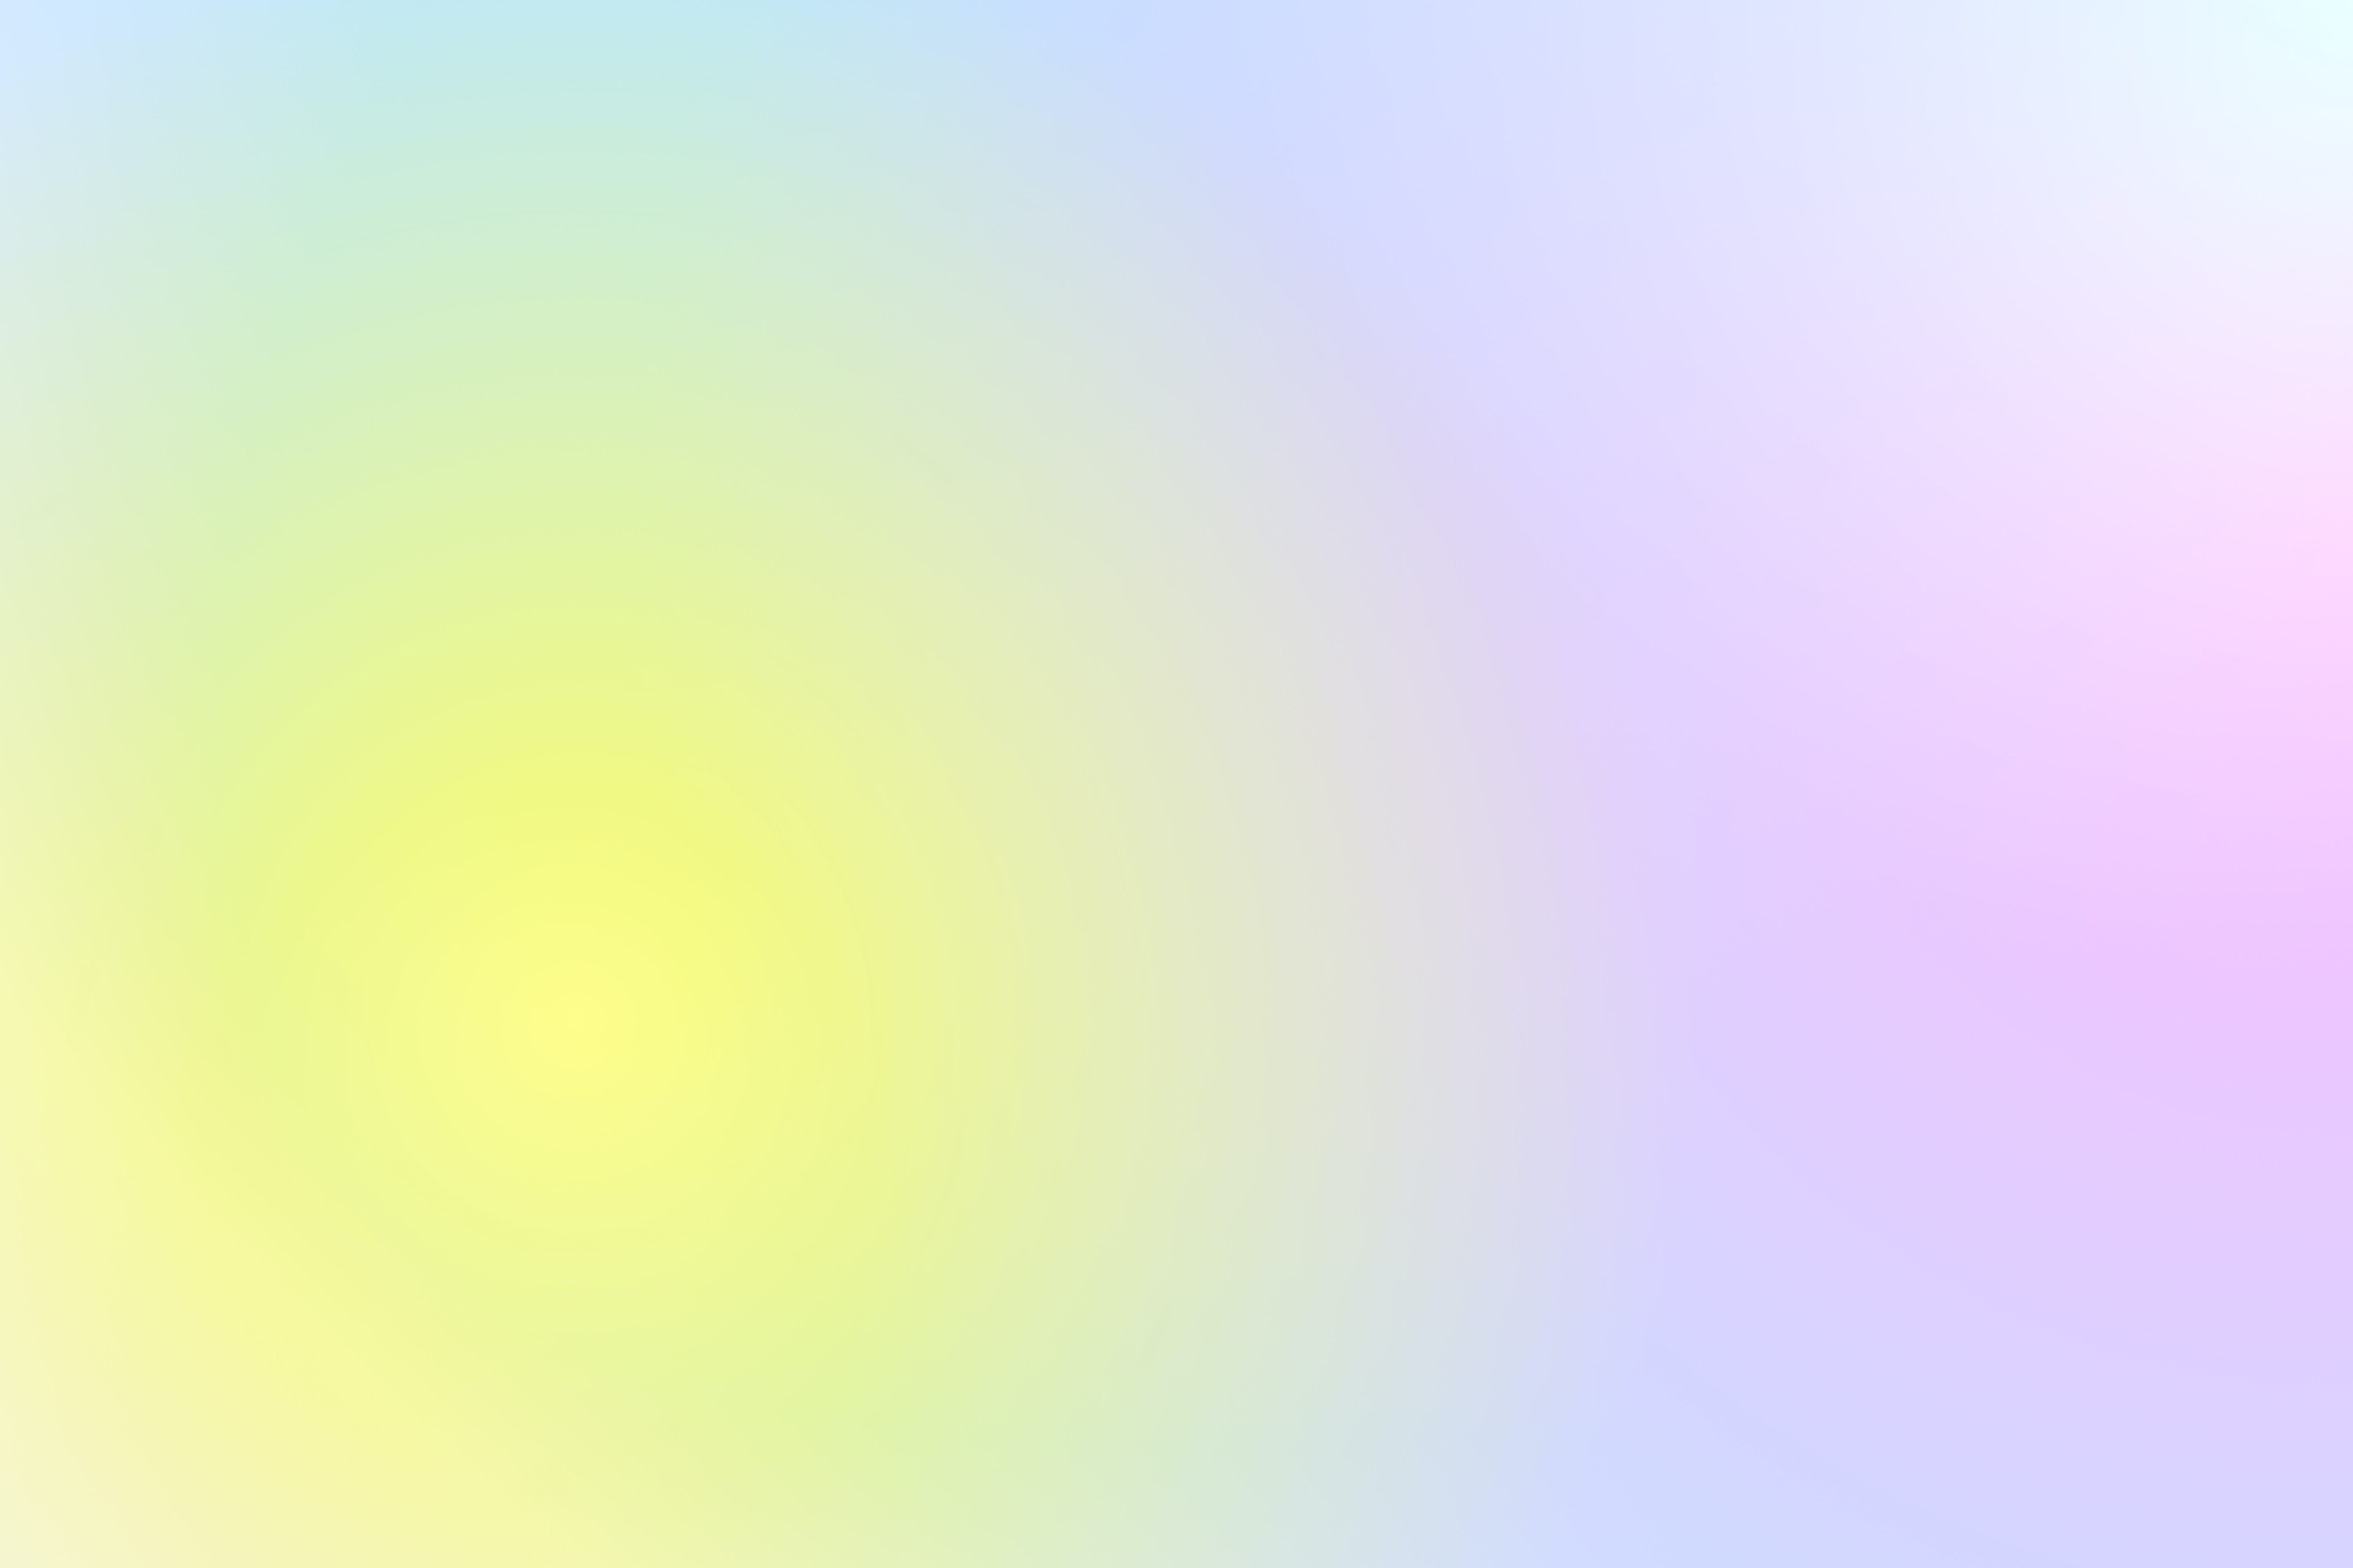
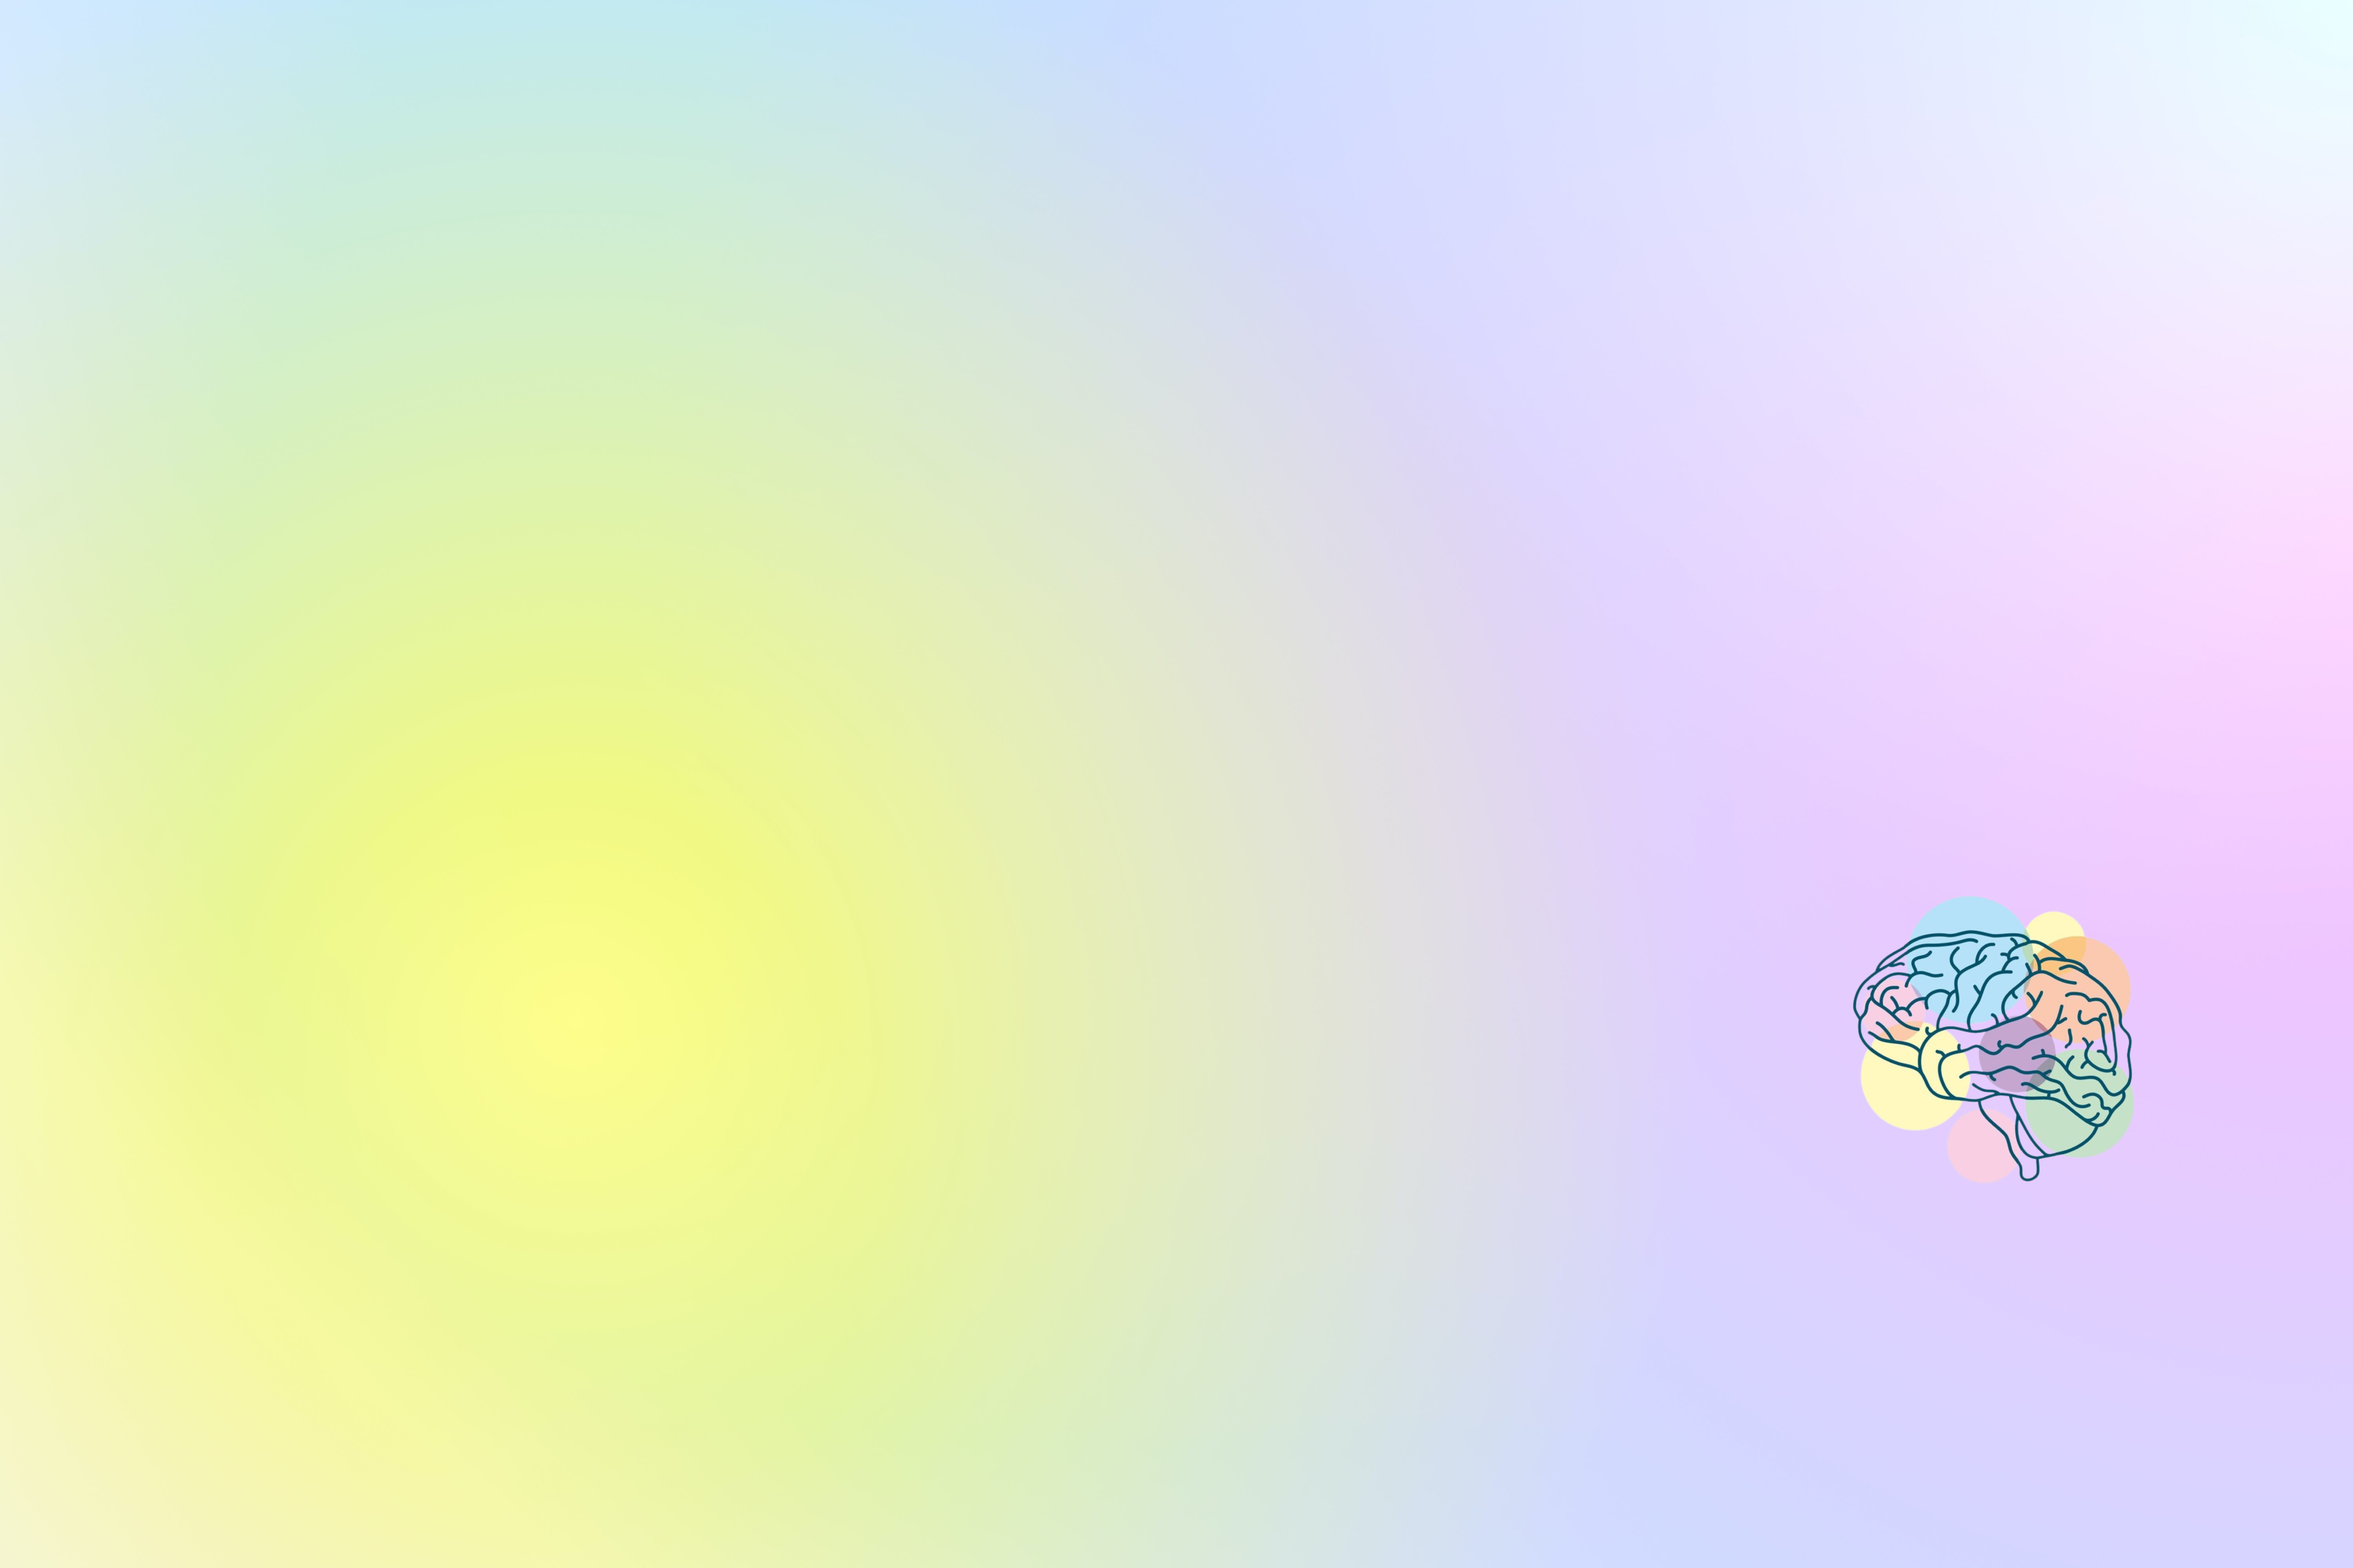
style: Edit background in light mode
- Made style edits to the background in light mode for improved visual appearance.

Changed region(s): [[0.7792, 0.5625, 0.9038, 0.75]]

diff --git a/css/style-index.css b/css/style-index.css
@@ -26,7 +26,7 @@ body {
   text-shadow: 0.01em 0.1em 0.1em rgba(0, 0, 0, 0.5);
   color: #3f3c3d;
   background-image: url(../img/light.jpg);
-  background-size: inherit;
+  background-size: cover;
   font-family: "Roboto Mono", monospace;
   margin: 0;
   padding: 0;
@@ -337,7 +337,7 @@ body {
   right: 0em;
 }
 .brain {
-  height: 15em;
+  height: 20em;
   width: auto;
   position: absolute;
   bottom: 2em;

diff --git a/index.html b/index.html
@@ -34,7 +34,6 @@
             <a href="pages/name.html" class="button-start">START</a>
             <a href="pages/rules.html" class="button-rules">RULES</a>
         </div>
-        <img src="img/favicon.png" alt="Brain" class="brain">
     </div>
     <script src="js/main.js"></script>
 </body>
